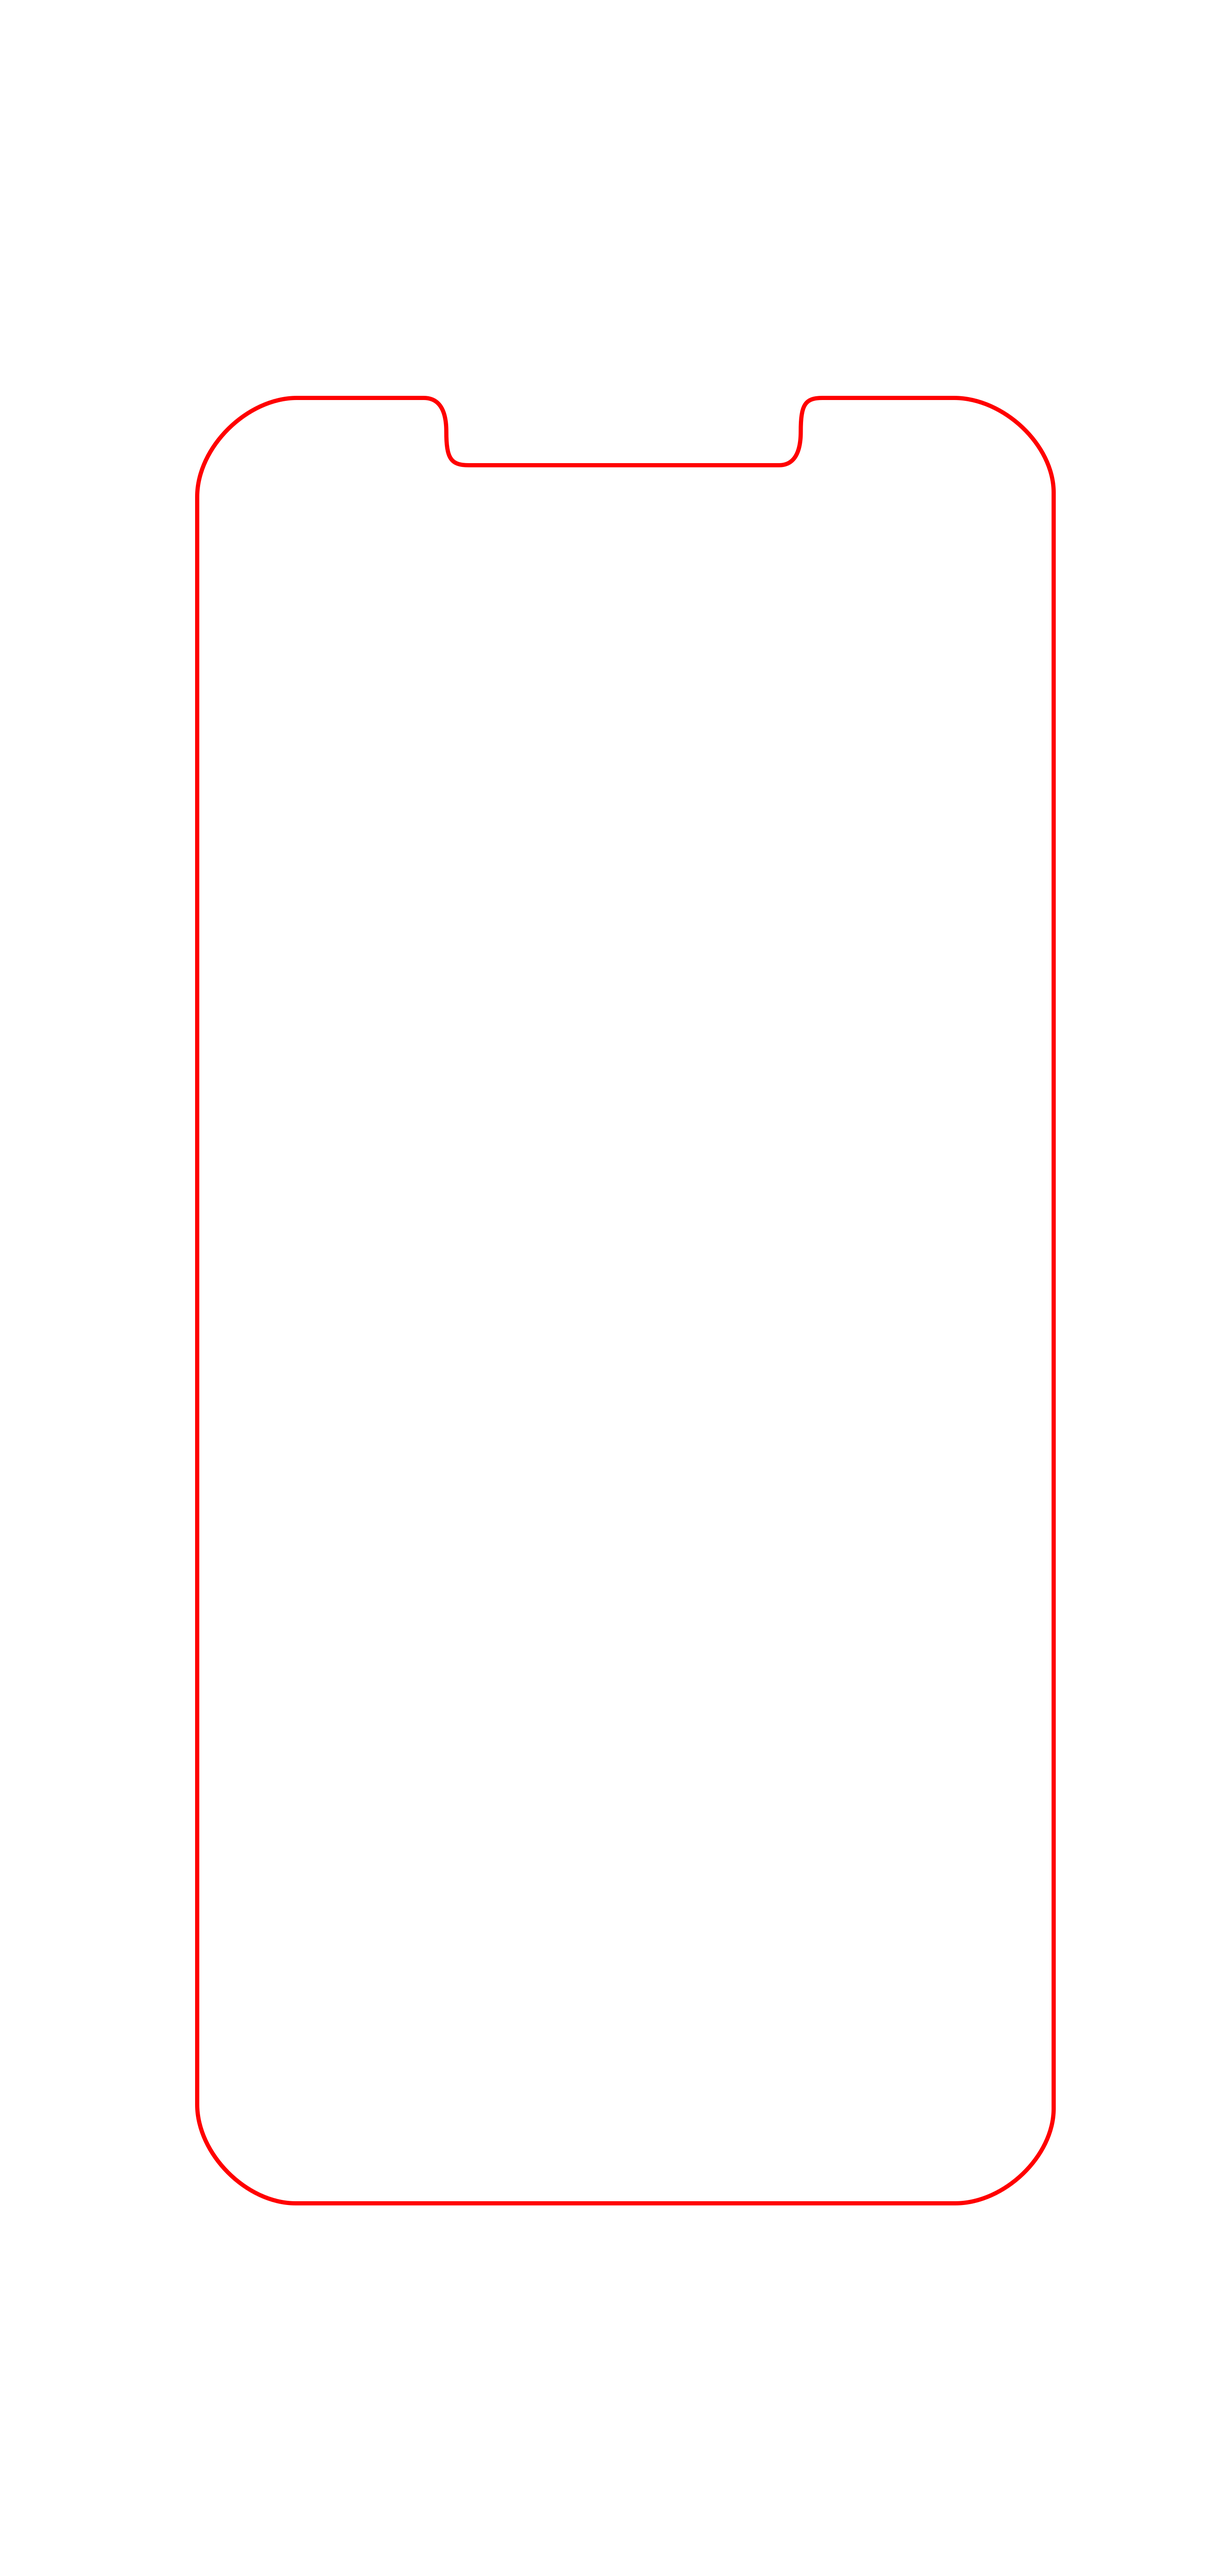
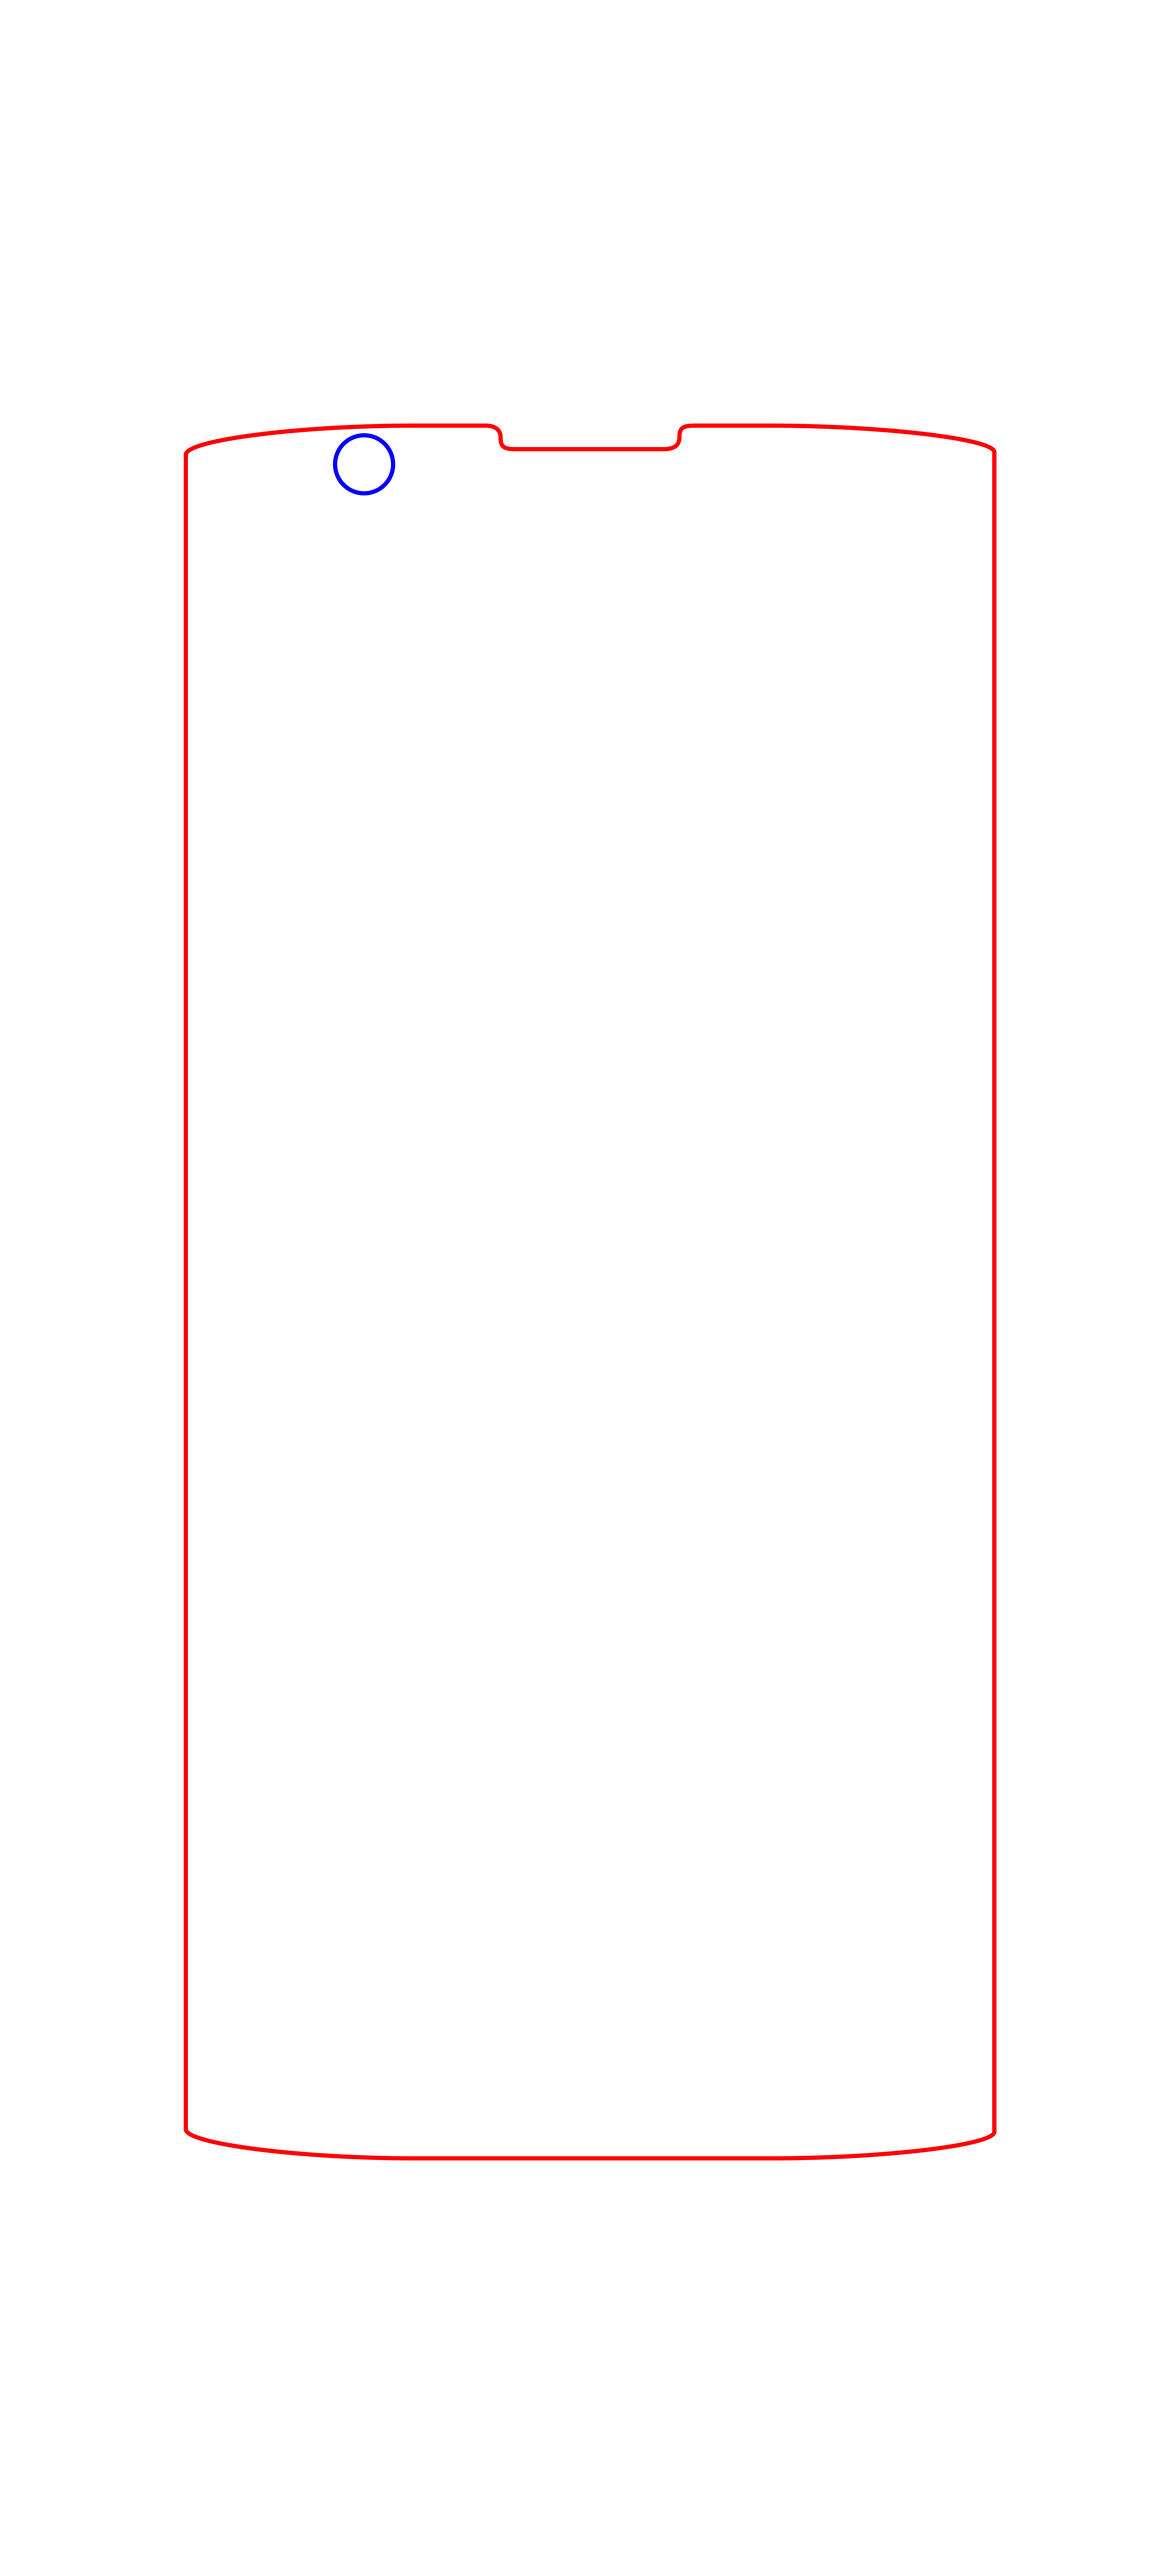
ok version

diff --git a/bezier.py b/bezier.py
@@ -19,6 +19,70 @@ class bezier:
         if delta < dist:
             return True
         return False
+    def findVertInFig(figure):
+        xL=10000 
+        xR=0
+        posXL = None
+        posXR = None
+        for fig in figure:
+            len = fig[3]
+            dY = abs(fig[0][1]-fig[1][1])
+            if len > 10:
+                if dY < xL:
+                    xL=dY
+                    posXL = fig[0][0]
+                if dY > xR:
+                    xR=dY
+                    posXR = fig[0][0]
+        return posXL, posXR
+    def testFig2(lineA, lineB, corner, path, dpi):
+        pp0, pp1 = bezier.convertToPoint(lineA)
+        pp2, pp3 = bezier.convertToPoint(lineB)
+        
+        figure = corner.linesFig
+        if figure != None:
+            posXL, posXR = bezier.findVertInFig(figure)
+            if posXL is not None and posXR is not None:
+                corner.minX = posXL
+                corner.maxX = posXR
+                # corner.minX = 1267
+                # corner.maxX = 1374
+        xCenter = corner.minX + ((corner.maxX - corner.minX)/2)
+        yCenter = corner.minY + ((corner.maxY - corner.minY)/2)
+        dX = pp2.x - pp1.x
+        radius = dX / 2
+
+        coff0 = 0.5
+        coff1 = 0.2
+        # part1
+        pA = Point(corner.minX,corner.minY)
+        pB = Point(corner.minX,corner.maxY-radius)
+        pC = Point(corner.minX,corner.maxY)
+        pD = Point(xCenter,corner.maxY)
+        pE = Point(corner.maxX,corner.maxY)
+        pF = Point(corner.maxX,corner.maxY-radius)
+        pG = Point(corner.maxX,corner.minY)
+
+        path.L(pA.x / dpi, pA.y / dpi) 
+        path.L(pB.x / dpi, pB.y / dpi) 
+        
+        # path.L(pC.x / dpi, pC.y / dpi) 
+        # path.L(pD.x / dpi, pD.y / dpi) 
+        bezier.doCorner(pB, pC, pD, path, dpi, 0.7, 0.3)
+
+        # path.L(pE.x / dpi, pE.y / dpi) 
+        # path.L(pF.x / dpi, pF.y / dpi) 
+        bezier.doCorner(pD, pE, pF, path, dpi, 0.7, 0.3)
+
+        path.L(pG.x / dpi, pG.y / dpi) 
+
+        return True 
+    def doCorner(pA, pB, pC, path, dpi, coff0, coff1):
+        bezP1 = bezier.interpolatePoint(pA, pB, coff0)
+        bezP2 = bezier.interpolatePoint(pB, pC, coff1)
+        # path.L(bezP1.x / dpi, bezP1.y / dpi).L(bezP2.x / dpi, bezP2.y / dpi).L( pC.x / dpi, pC.y / dpi)
+        path.C(bezP1.x / dpi, bezP1.y / dpi, bezP2.x / dpi, bezP2.y / dpi, pC.x / dpi, pC.y / dpi)
+        return
     # тестирование горизонтальные линии последовательно
     def testFig1(lineA, lineB, corner, path, dpi):
         pp0, pp1 = bezier.convertToPoint(lineA)
@@ -70,66 +134,6 @@ class bezier:
             # path.L(bezP1.x / dpi, bezP1.y / dpi).L(bezP2.x / dpi, bezP2.y / dpi).L( pE.x / dpi, pE.y / dpi)
             path.C(bezP1.x / dpi, bezP1.y / dpi, bezP2.x / dpi, bezP2.y / dpi, pE.x / dpi, pE.y / dpi)
         return True 
-        '''
-        pp0 = Point(lineA[1][0],lineA[1][1])
-        pp3 = Point(lineB[0][0],lineB[0][1])
-
-        xS = lineA[1][0]
-        xCenter = corner.minX + ((corner.maxX - corner.minX)/2)
-        xL = corner.minX + ((xCenter - corner.minX)/2)
-        xR = xCenter + ((xCenter - corner.minX)/2)
-        xE = lineB[0][0]
-        
-        deltaY = lineA[1][1] - lineB[0][1]
-        doReversS = True
-        doS = True
-        if abs(deltaY) > 5:
-            if deltaY > 5:
-                doS = False
-            else:
-                doReversS = False
-
-        yS = lineA[1][1]
-        yCenter = corner.minY + ((corner.maxY - corner.minY)/2)
-        yE = lineB[0][1]
-
-        tL = Point(xL,yCenter)
-        tMain = Point(xCenter,corner.maxY)
-        tR = Point(xR,yCenter)
-
-        path.L(pp0.x / dpi, pp0.y / dpi) 
-        if doS:
-            # сплине 0
-            # path.L(tL.x / dpi, tL.y / dpi) 
-            centroid1 = Point(xL,yS)
-            centroid2 = Point(xL,yS)
-            centroid2 = bezier.interpolatePoint(centroid2, tL, 0.1)
-            path.C(centroid1.x / dpi, centroid1.y / dpi, centroid2.x / dpi,centroid2.y / dpi, tL.x / dpi, tL.y / dpi)
-            
-            # сплине 1 (center l)
-            # path.L(tMain.x / dpi, tMain.y / dpi) 
-            centroid1 = Point(xL,tMain.y)
-            centroid2 = Point(xL,tMain.y)
-            # centroid2 = CircuitSvg.interpolatePoint(centroid2, tMain, 0)
-            centroid2 = bezier.interpolatePoint(centroid2, tMain, 0.4)
-            path.C(centroid1.x / dpi, centroid1.y / dpi, centroid2.x / dpi,centroid2.y / dpi, tMain.x / dpi, tMain.y / dpi)
-        
-        if doReversS:
-            # сплине 2 (center r)
-            # path.L(tR.x / dpi, tR.y / dpi) 
-            centroid1 = Point(xR,tMain.y)
-            centroid2 = Point(xR,tMain.y)
-            centroid1 = bezier.interpolatePoint(centroid1, tMain, 0.4)
-            path.C(centroid1.x / dpi, centroid1.y / dpi, centroid2.x / dpi,centroid2.y / dpi, tR.x / dpi, tR.y / dpi)
-
-            # сплине 3
-            # path.L(pp3.x / dpi, pp3.y / dpi) 
-            centroid1 = Point(xR,yE)
-            centroid2 = Point(xR,yE)
-            centroid1 = bezier.interpolatePoint(centroid1, tR, 0.1)
-            path.C(centroid1.x / dpi, centroid1.y / dpi, centroid2.x / dpi,centroid2.y / dpi, pp3.x / dpi, pp3.y / dpi)
-        '''
-        return False    
     # тестирование вертикальые линии последовательно
     def testFig0(lineA, lineB, lineC, path, dpi):
         pp0, pp1 = bezier.convertToPoint(lineA)

diff --git a/cornerFig.py b/cornerFig.py
@@ -104,7 +104,12 @@ class CircuitSvg:
             width = corner.maxX-corner.minX
             height = corner.maxY-corner.minY
             if corner.cross == ParallStatus.hor:
-                isFig1 = bezier.testFig1(lineA,lineB, corner, path, dpi)
+                deltaX = abs(lineB[0][0] - lineA[1][0])
+                deltaY = abs(lineB[0][1] - lineA[1][1])
+                if deltaY >10:
+                    isFig1 = bezier.testFig1(lineA,lineB, corner, path, dpi)
+                else:
+                    isFig1 = bezier.testFig2(lineA,lineB, corner, path, dpi)
                 '''
                 pp0 = Point(lineA[1][0],lineA[1][1])
                 # pp1 = Point(lineA[1][0],corner.maxY)
